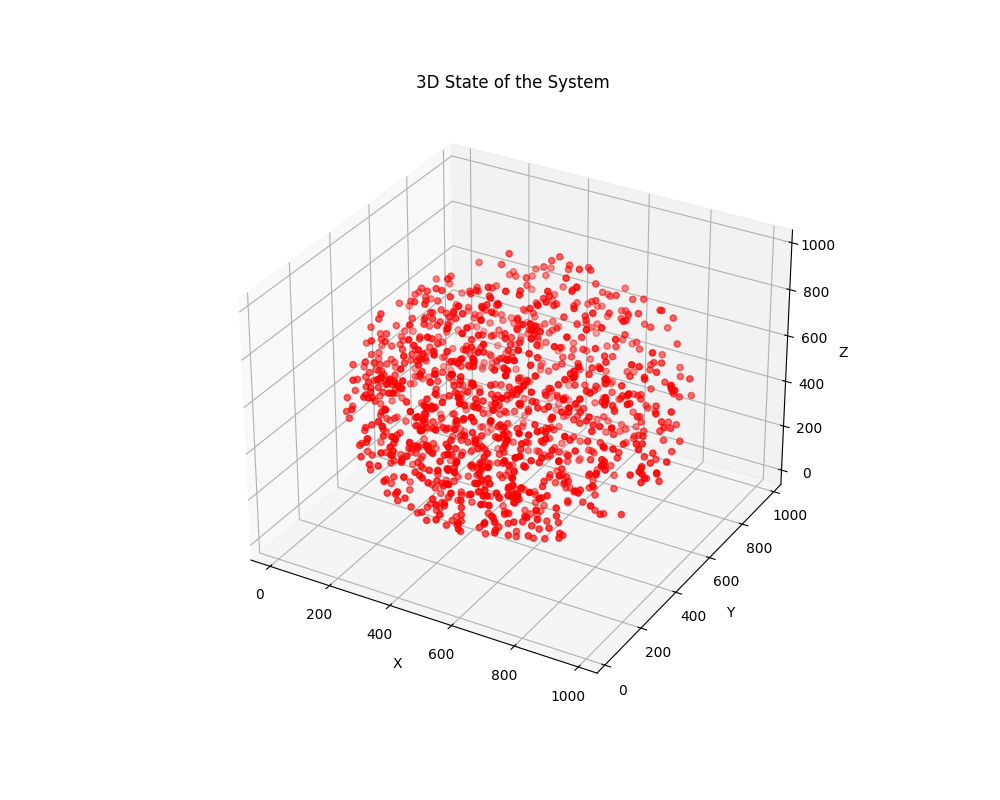
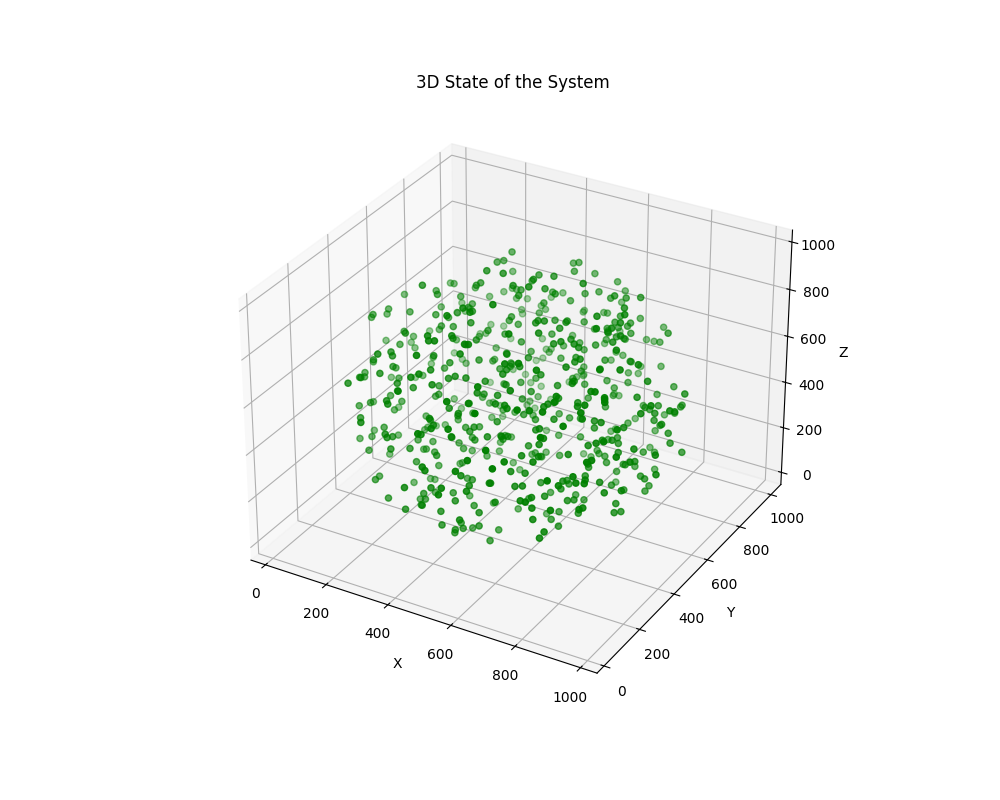
added gif generation

diff --git a/montecarlosim/plotter.py b/montecarlosim/plotter.py
@@ -1,3 +1,6 @@
+#!/usr/bin/env python3
+
+import imageio
 import matplotlib.pyplot as plt
 from mpl_toolkits.mplot3d import Axes3D  # Import the 3D plotting toolkit
 
@@ -44,7 +47,7 @@ class Plotter:
 
         fig = plt.figure(figsize=(10, 8))
         ax = fig.add_subplot(111, projection='3d')  # Create a 3D subplot
-        ax.scatter(xs, ys, zs, color='r', marker='o')  # Plot the points in 3D space
+        ax.scatter(xs, ys, zs, color='g', marker='o')  # Plot the points in 3D space
 
         ax.set_title('3D State of the System')
         ax.set_xlabel('X')
@@ -53,3 +56,45 @@ class Plotter:
         ax.grid(True)
         plt.savefig(f'3d_state_step_{step_index}.png')
         plt.close()
+    
+    def create_gif(self, filename='system_evolution.gif', plot_type='3d', step_interval=100):
+        """
+        Creates a GIF showing the evolution of the system over time in either 2D or 3D.
+
+        Parameters:
+        - filename: Name of the output GIF file.
+        - plot_type: Type of plot ('2d' or '3d') for the GIF.
+        - step_interval: Interval between steps to include in the GIF.
+        """
+        images = []
+        for step_index in range(0, len(self.simulation.steps), step_interval):
+            fig = plt.figure(figsize=(10, 8))
+            if plot_type == '3d':
+                ax = fig.add_subplot(111, projection='3d')
+                system_snapshot = self.simulation.steps[step_index]
+                xs, ys, zs = system_snapshot
+                ax.scatter(xs, ys, zs, color='b', marker='o')
+                ax.set_xlabel('X')
+                ax.set_ylabel('Y')
+                ax.set_zlabel('Z')
+            elif plot_type == '2d':
+                ax = fig.add_subplot(111)
+                system_snapshot = self.simulation.steps[step_index]
+                xs, _, zs = system_snapshot  # Assuming XZ projection for 2D
+                ax.scatter(xs, zs, color='b')
+                ax.set_xlabel('X')
+                ax.set_ylabel('Z')
+            else:
+                raise ValueError("plot_type must be '2d' or '3d'")
+            
+            ax.set_title(f'Step {step_index}')
+            # Save plot to a temporary PNG file
+            temp_filename = f'temp_step_{step_index}.png'
+            plt.savefig(temp_filename)
+            plt.close()
+            # Append the image to the list of images
+            images.append(imageio.imread(temp_filename))
+            # Optionally, remove the temporary file here if desired
+        
+        # Create GIF
+        imageio.mimsave(filename, images, fps=10)

diff --git a/run_simulation.py b/run_simulation.py
@@ -9,7 +9,7 @@ from montecarlosim.plotter import Plotter
 def main():
 
     L = 500
-    N = 1200
+    N = 600
 
     print(f"Simulation started at {time.asctime()}...")
     t0 = time.time()
@@ -32,6 +32,9 @@ def main():
     plotter.plot_xz_projection()
     
     plotter.plot_3d_state()
+    
+    plotter.create_gif(filename='system_evolution.gif'
+        , plot_type='3d', step_interval=100)
 
 if __name__ == '__main__':
     main()
